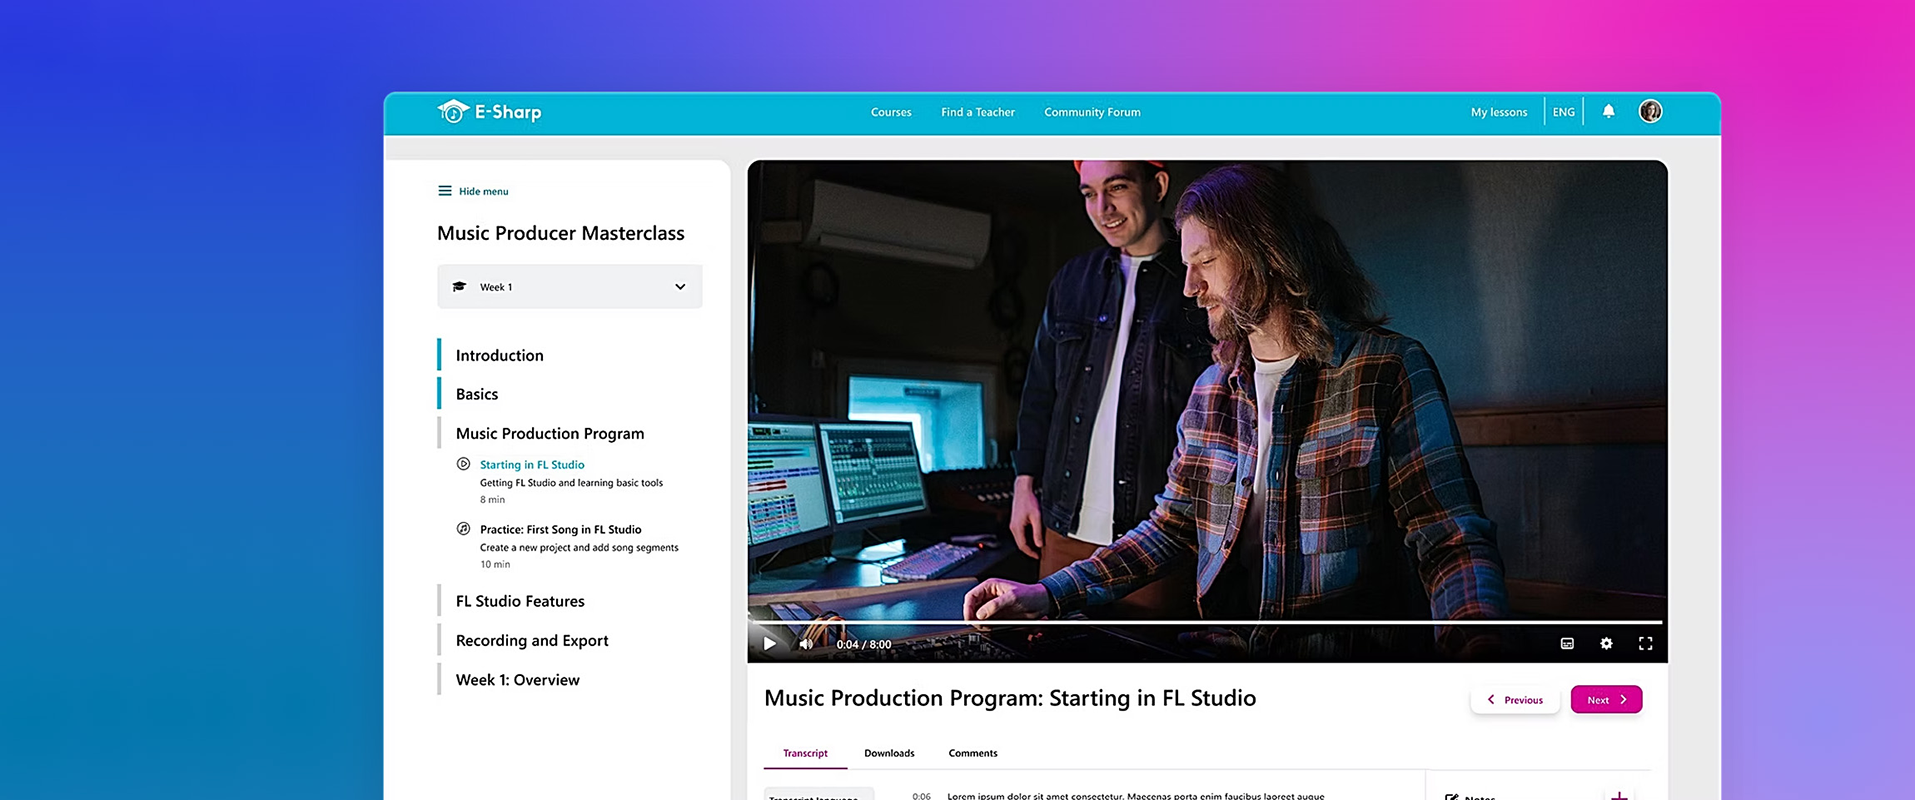
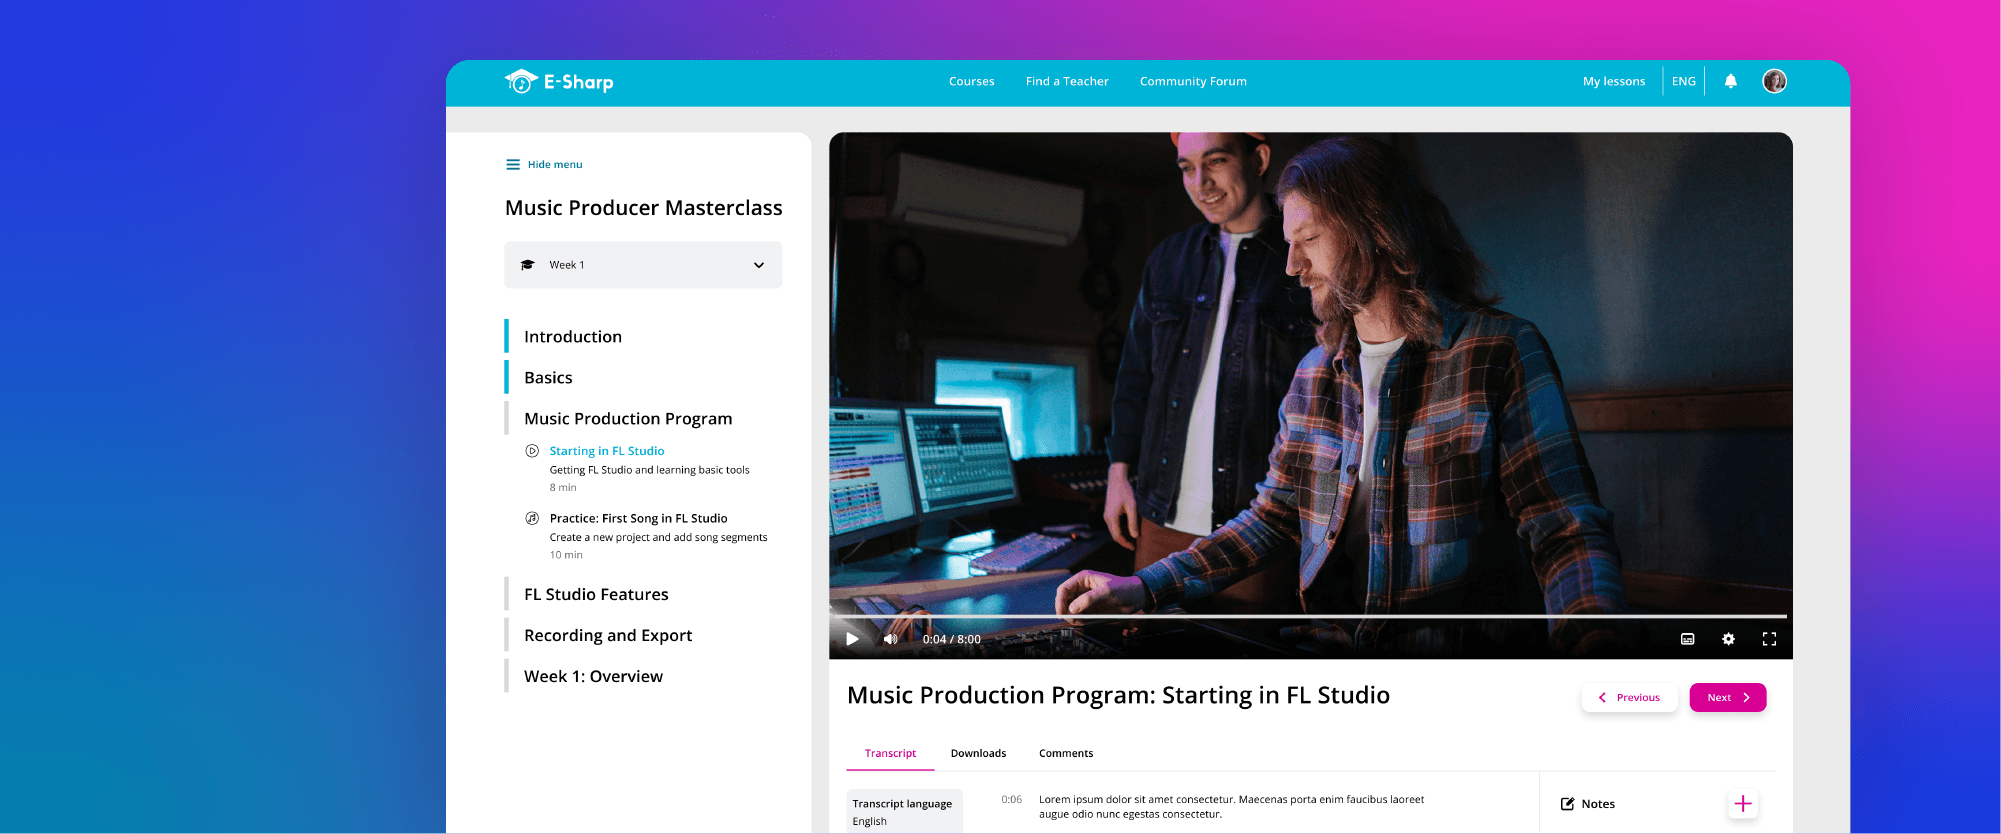
Mobile and desktop CSS tweaks

diff --git a/css/components.css b/css/components.css
@@ -292,6 +292,10 @@
   margin: 0;
 }
 
+.page-graphic .project-section__subtitle {
+  line-height: 1.2;
+}
+
 .project-section__description {
   font-family: var(--font-body);
   font-weight: 400;
@@ -434,21 +438,22 @@
 
 @media (max-width: 900px) {
   .project-section__title-text {
-    font-size: 24px;
+    font-size: 26px;
     font-weight: 500;
     line-height: 1.2;
     text-align: center;
   }
 
   .project-section__subtitle {
-    font-size: 14px;
+    font-size: 15px;
+    line-height: 1.2;
     letter-spacing: 0.08em;
     text-align: center;
   }
 
   .project-section__description {
-    font-size: 12px;
-    line-height: 20px;
+    font-size: 13px;
+    line-height: 22px;
     letter-spacing: 0.08em;
     text-align: center;
     max-width: 500px !important;
@@ -496,15 +501,16 @@
   .education-item__company,
   .experience-item__duration,
   .education-item__duration {
-    font-size: 14px;
+    font-size: 15px;
+    line-height: 1.2;
     letter-spacing: 0.08em;
   }
 
   .experience-item__description,
   .education-item__description,
   .skill-group__item-body {
-    font-size: 12px;
-    line-height: 20px;
+    font-size: 13px;
+    line-height: 22px;
     letter-spacing: 0.08em;
   }
 
@@ -522,7 +528,8 @@
   }
 
   .skill-group__subtitle {
-    font-size: 14px;
+    font-size: 15px;
+    line-height: 1.2;
     letter-spacing: 0.08em;
     color: var(--color-primary);
   }
@@ -535,7 +542,7 @@
   }
 
   .about-section__title {
-    font-size: 24px;
+    font-size: 26px;
     font-weight: 500;
     line-height: 1.2;
   }
@@ -569,10 +576,15 @@
 
   .mobile-menu__contact {
     display: flex;
-    flex-direction: column;
-    align-items: flex-start;
+    flex-direction: row;
+    align-items: center;
+    justify-content: space-between;
     gap: var(--space-3);
-    padding: var(--space-4) var(--mobile-gutter) var(--space-8);
+    padding: var(--space-6) var(--mobile-gutter);
+  }
+
+  .mobile-menu__contact .social-icons {
+    order: 1;
   }
 
   .mobile-menu__item {

diff --git a/css/base.css b/css/base.css
@@ -19,7 +19,7 @@ body {
   min-height: 100vh;
   line-height: 1.5;
   -webkit-font-smoothing: antialiased;
-  font-smooth: always;
+  -moz-osx-font-smoothing: grayscale;
 }
 
 img,
@@ -112,13 +112,13 @@ ul {
   --page-gutter-section-title: 104px;
   --mobile-gutter: 36px;
   --topbar-height: 82px;
-  --topbar-padding-top: 30px;
+  --topbar-padding-top: 16px;
 
   --button-height-lg: 57px;
   --button-height-sm: 34px;
   --button-width-lg: 329px;
   --button-width-sm: 256px;
-  --avatar-size-desktop: 80px;
+  --avatar-size-desktop: 72px;
   --avatar-size-mobile: 36px;
 
   --radius-pill: 9999px;
@@ -264,27 +264,6 @@ body {
   color: var(--color-on-surface-muted);
 }
 
-.skip-link {
-  position: absolute;
-  inset-inline-start: var(--space-4);
-  inset-block-start: var(--space-4);
-  padding: var(--space-3) var(--space-5);
-  background: var(--color-on-surface);
-  color: var(--color-on-primary);
-  font-family: var(--font-body);
-  font-weight: 700;
-  text-transform: uppercase;
-  letter-spacing: 0.12em;
-  font-size: 13px;
-  transform: translateY(-150%);
-  transition: transform var(--transition-base);
-  z-index: 1000;
-}
-
-.skip-link:focus {
-  transform: translateY(0);
-}
-
 .visually-hidden {
   position: absolute;
   width: 1px;
@@ -299,6 +278,7 @@ body {
 
 @media (max-width: 900px) {
   body {
-    line-height: 20px;
+    font-size: 13px;
+    line-height: 22px;
   }
 }

diff --git a/css/layout.css b/css/layout.css
@@ -21,6 +21,7 @@
   mix-blend-mode: difference;
   color: #ffffff;
   pointer-events: none;
+  overflow-y: auto;
 }
 
 .sidebar > * {
@@ -39,7 +40,7 @@
 }
 
 .sidebar__footer {
-  flex: 1 0 0;
+  flex: 1 0 auto;
   min-height: 0;
   display: flex;
   align-items: flex-end;
@@ -571,6 +572,7 @@
     align-items: center;
     gap: var(--space-9);
     padding-block: 0;
+    min-height: 0;
     flex-direction: column;
   }
 
@@ -652,8 +654,8 @@
 
   .gallery-masonry {
     grid-template-columns: 1fr;
-    gap: var(--space-2);
-    padding: var(--space-5);
+    gap: var(--space-12);
+    padding: 0;
   }
 
   .gallery-masonry picture:has(.gallery-masonry__tile--wide) {
@@ -665,7 +667,8 @@
   .gallery-masonry__tile--standard,
   .gallery-masonry__tile--wide {
     width: 100%;
-    aspect-ratio: 4 / 3;
+    height: auto;
+    aspect-ratio: auto;
   }
 
   .about-section,

diff --git a/fine-arts.html b/fine-arts.html
@@ -13,8 +13,6 @@
     <link rel="stylesheet" href="css/animations.css" />
   </head>
   <body class="page-fine-arts">
-    <a class="skip-link" href="#main">Skip to content</a>
-
     <div class="page-shell">
       <header class="topbar">
         <a class="logo-mark logo-mark--mobile" href="index.html" aria-label="Anabela Teslić — Home">Anabela Teslić</a>

diff --git a/graphic-design.html b/graphic-design.html
@@ -13,8 +13,6 @@
     <link rel="stylesheet" href="css/animations.css" />
   </head>
   <body class="page-graphic">
-    <a class="skip-link" href="#main">Skip to content</a>
-
     <div class="page-shell">
       <header class="topbar">
         <a class="logo-mark logo-mark--mobile" href="index.html" aria-label="Anabela Teslić — Home">Anabela Teslić</a>

diff --git a/about-me.html b/about-me.html
@@ -14,8 +14,6 @@
     <link rel="stylesheet" href="css/about-me.css" />
   </head>
   <body class="page-about-me">
-    <a class="skip-link" href="#main">Skip to content</a>
-
     <div class="page-shell">
       <header class="topbar">
         <a class="logo-mark logo-mark--mobile" href="index.html" aria-label="Anabela Teslić — Home">Anabela Teslić</a>

diff --git a/ux-ui-design.html b/ux-ui-design.html
@@ -13,8 +13,6 @@
     <link rel="stylesheet" href="css/animations.css" />
   </head>
   <body class="page-ux-ui">
-    <a class="skip-link" href="#main">Skip to content</a>
-
     <div class="page-shell">
       <header class="topbar">
         <a class="logo-mark logo-mark--mobile" href="index.html" aria-label="Anabela Teslić — Home">Anabela Teslić</a>

diff --git a/index.html b/index.html
@@ -16,8 +16,6 @@
     <link rel="stylesheet" href="css/animations.css" />
   </head>
   <body class="page-home">
-    <a class="skip-link" href="#main">Skip to content</a>
-
     <div class="page-shell">
       <header class="topbar">
         <a class="logo-mark logo-mark--mobile" href="index.html" aria-label="Anabela Teslić — Home">Anabela Teslić</a>

diff --git a/css/about-me.css b/css/about-me.css
@@ -77,8 +77,8 @@
 
   .about-headline__description {
     width: 100%;
-    font-size: 12px;
-    line-height: 20px;
+    font-size: 13px;
+    line-height: 22px;
     letter-spacing: 0.08em;
     text-align: center;
     gap: 16px;
